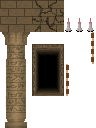
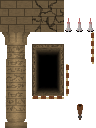
add platform and key down

Changed region(s): [[0.3125, 0.75, 0.6875, 0.7812], [0.7812, 0.8125, 0.875, 0.9375]]

diff --git a/src/fr/ld36/map/Map.java b/src/fr/ld36/map/Map.java
@@ -49,10 +49,14 @@ public class Map
 					data[y][x] = 0;
 					if (color == 0)
 						data[y][x] = 1;
-					if (color == 0xff0000)
+					else if (color == 0xff0000)
 						data[y][x] = 4;
-					if (color == 0x00ff00)
+					else if (color == 0x00ff00)
 						data[y][x] = 5;
+					else if (color == 0x808080)
+						data[y][x] = 6;
+					else if (color == 0x800080)
+						data[y][x] = 7;
 				}
 			}
 		} catch (IOException e) {
@@ -185,10 +189,23 @@ public class Map
 					color = Color4f.WHITE;
 					if (data[y][x] == 2)
 						uv = new Vec2(addUV.x * 2, addUV.y);
-					if (data[y][x] == 3)
+					else if (data[y][x] == 3)
 						uv = new Vec2(addUV.x * 2, addUV.y * 2);
-					if (data[y][x] == 4)
-						uv = new Vec2(addUV.x * 1, 0);
+					else if (data[y][x] == 4)
+						uv = new Vec2(addUV.x * 2, addUV.y * 3);
+					else if (data[y][x] == 5)
+					{
+						if (y == 0 || (y > 0 && data[y - 1][x] != 5))
+							uv = new Vec2(0, addUV.y);
+						else if (y == data.length - 1 || (y < data.length - 1 && data[y + 1][x] != 5))
+							uv = new Vec2(0, addUV.y * 3);
+						else
+							uv = new Vec2(0, addUV.y * 2);
+					}
+					else if (data[y][x] == 6)
+						uv = new Vec2(addUV.x, addUV.y * 3);
+					else if (data[y][x] == 7)
+						uv = new Vec2(addUV.x * 2, 0);
 				}
 				else if (data[y][x] == 0)
 				{
@@ -220,7 +237,7 @@ public class Map
 		
 	}
 	
-	public boolean checkCollid(AABB aabb)
+	public boolean checkCollid(Entity e, AABB aabb)
 	{
 		if (aabb != null)
 		{
@@ -246,6 +263,12 @@ public class Map
 						if (collid)
 							return (true);
 					}
+					if (data[y][x] == 6)
+					{
+						boolean collid = aabb.collided(x * 32, y * 32, 32, (int) (8 + e.gravity));
+						if (collid && e.gravity > 0 && aabb.y + aabb.h <= y * 32 + 4 + e.gravity)
+							return (true);
+					}
 				}
 			}
 			
@@ -253,10 +276,10 @@ public class Map
 		return (false);
 	}
 	
-	public boolean floorDetect(AABB aabb)
+	public boolean floorDetect(Entity e, AABB aabb)
 	{
-		int minX = (int) (aabb.x + 8) / 32;
-		int maxX = (int) (aabb.x + aabb.w - 8) / 32;
+		int minX = (int) (aabb.x + 4) / 32;
+		int maxX = (int) (aabb.x + aabb.w - 4) / 32;
 		int minY = (int) (aabb.y + aabb.h - 16) / 32;
 		int maxY = (int) (aabb.y + aabb.h + 1) / 32;
 		for (int y = minY; y <= maxY; y++)
@@ -273,6 +296,12 @@ public class Map
 					return (true);
 				if (data[y][x] == 1)
 					return (true);
+				if (data[y][x] == 6)
+				{
+					AABB tmp = new AABB(aabb.x, aabb.y + aabb.h - 2, aabb.w, 4);
+					if (tmp.collided(x * 32, y * 32, 32, 4))
+					return (true);
+				}
 			}
 		}
 		return (false);

diff --git a/src/fr/ld36/Game.java b/src/fr/ld36/Game.java
@@ -61,12 +61,12 @@ public class Game
 				 */
 				if (e instanceof EntityPlayer)
 				{
-					if (map.checkCollid(new AABB((int)last.x + 4, (int)e.pos.y + 16, 24, 48)))
+					if (map.checkCollid(e, new AABB((int)last.x + 4, (int)e.pos.y + 16, 24, 48)))
 					{
 						e.pos.y = last.y;
 						e.gravity = 0;
 					}
-					if (map.checkCollid(new AABB((int)e.pos.x + 4, (int)last.y + 16, 24, 48)))
+					if (map.checkCollid(e, new AABB((int)e.pos.x + 4, (int)last.y + 16, 24, 48)))
 					{
 						e.pos.x = last.x;
 					}
@@ -86,12 +86,12 @@ public class Game
 					AABB aabb = e.getBox();
 					if (aabb != null)
 					{
-						if (map.checkCollid(new AABB((int)last.x, (int)e.pos.y, aabb.w, aabb.h)))
+						if (map.checkCollid(e, new AABB((int)last.x, (int)e.pos.y, aabb.w, aabb.h)))
 						{
 							e.pos.y = last.y;
 							e.gravity = 0;
 						}
-						if (map.checkCollid(new AABB((int)e.pos.x, (int)last.y, aabb.w, aabb.h)))
+						if (map.checkCollid(e, new AABB((int)e.pos.x, (int)last.y, aabb.w, aabb.h)))
 						{
 							e.pos.x = last.x;
 						}
@@ -111,7 +111,7 @@ public class Game
 				}
 				AABB box = e.getBox();
 				if (box != null)
-					e.inFloor = map.floorDetect(box) || entityFloor(e, new AABB(box.x + 8, box.y + box.h - 16, 16, 17));
+					e.inFloor = map.floorDetect(e, box) || entityFloor(e, new AABB(box.x + 8, box.y + box.h - 2, 16, 4));
 				i++;
 			}
 			else
@@ -125,7 +125,7 @@ public class Game
 		{
 			Entity e0 = entities.get(i);
 			AABB e0box = e0.getBox();
-			if (e0box == null || !e0.spawnFront())
+			if (e0box == null || !e0.spawnFront() || e0 instanceof IBlock)
 			{
 				i++;
 				continue;
@@ -148,7 +148,7 @@ public class Game
 				Vec2 collid = e0box.collided(e1box);
 				if (collid != null)
 				{
-					if (e0.gravity >= 0 && e0box.y + e0box.h <= e1box.y + e1box.h / 2 && e1 instanceof IWalkable)
+					if (e0.gravity >= 0 && e0box.y + e0box.h <= e1box.y + 4 + e0.gravity && e1 instanceof IWalkable)
 					{
 						if (e0 instanceof EntityPlayer)
 							e0.pos.y = e1box.y - 64;

diff --git a/src/fr/ld36/entities/EntityPlayer.java b/src/fr/ld36/entities/EntityPlayer.java
@@ -94,6 +94,12 @@ public class EntityPlayer extends Entity {
 			gravity = -12;
 			this.inFloor = false;
 		}
+		if (keyboard.isDown(Keyboard.KEY_S) && this.inFloor)
+		{
+			pos.y += 8;
+			gravity = 0;
+			this.inFloor = false;
+		}
 		if (keyboard.isDown(Keyboard.KEY_SPACE) && System.currentTimeMillis() - repeatSpaceTime > 150)
 		{
 			repeatSpaceTime = System.currentTimeMillis();
